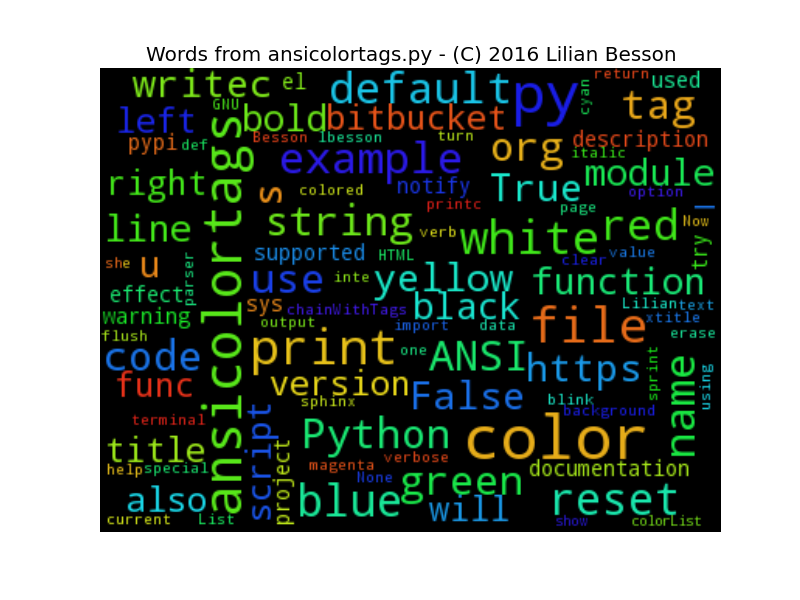
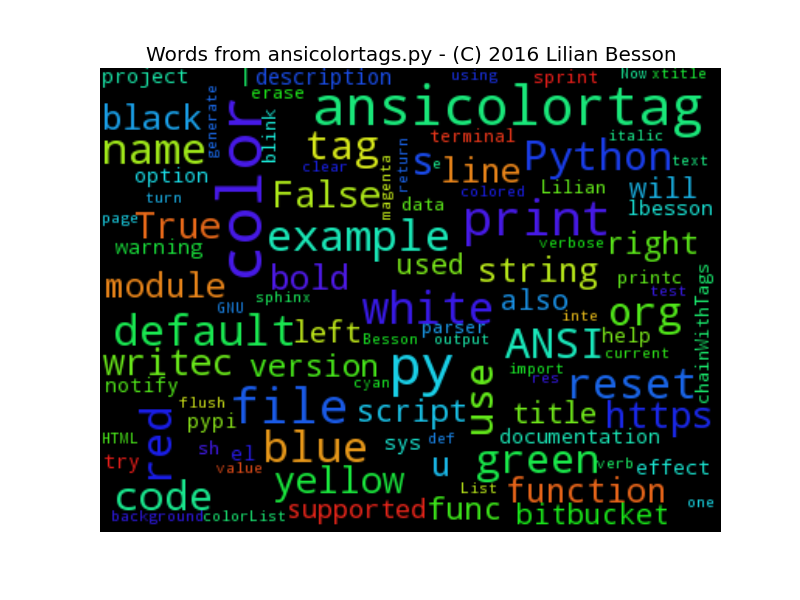
Update the INSTALL file.

Changed region(s): [[0.125, 0.09, 0.9062, 0.9]]

diff --git a/ansicolortags.py b/ansicolortags.py
@@ -2,7 +2,7 @@
 # -*- encoding: utf-8 -*-
 """
 An efficient and simple ANSI colors module (and also a powerful script), with functions to print text using colors.
-https://bitbucket.org/lbesson/ansicolors.py
+https://bitbucket.org/lbesson/ansicolortags.py
 
 
 The names of the colors follow these conventions:
@@ -111,8 +111,8 @@ About
 
 This project can be found on-line:
 
-* `here on BitBucket <https://bitbucket.org/lbesson/ansicolors.py>`_;
-* `here on PyPi <https://pypi.python.org/pypi/ansicolors>`_.
+* `here on BitBucket <https://bitbucket.org/lbesson/ansicolortags.py>`_;
+* `here on PyPi <https://pypi.python.org/pypi/ansicolortags>`_.
 
 
 * The reference page for ANSI code is : `here on Wikipedia <https://en.wikipedia.org/wiki/ANSI_escape_code>`_.
@@ -177,8 +177,8 @@ warning, question, WARNING, INFO, ERROR:
 """
 
 __author__ = 'Lilian Besson'
-__version__ = '0.1'
-__date__ = '2016-06-05T22:27:50+02:00'
+__version__ = '0.2'
+__date__ = '2016-06-06T10:40:41+02:00'
 
 # %% Usual Modules
 # Should we make them hidden from the interface of the script. Idea : remove from __all__ ?
@@ -685,6 +685,7 @@ def _generate_color_sh(file_name=None):
 # List of colors
 # ==============
 """)
+    # FIXME it appears to be failing on Python 3
     res = ""
     for s in colorList:
         exec("res = ('%%s' %% %s)" % s.replace('\x1b', '\\\\x1b'))  # Bad to use exec !

diff --git a/conf.py b/conf.py
@@ -259,7 +259,7 @@ latex_show_pagerefs = True
 # One entry per manual page. List of tuples
 # (source start file, name, description, authors, manual section).
 man_pages = [
-    ('index', 'ansicolors-balises', u'ansicolortags Documentation',
+    ('index', 'ansicolortags', u'ansicolortags Documentation',
      [u'Lilian Besson'], 1)
 ]
 

diff --git a/README.md b/README.md
@@ -15,7 +15,7 @@ ansicolortags
 ### Language?
 Python v2.7+ or Python v3.2+.
 
-This project is hosted on [the Pypi package repository](<https://pypi.python.org/pypi/ANSIColors-balises> "Pypi !").
+This project is hosted on [the Pypi package repository](<https://pypi.python.org/pypi/ansicolortag> "Pypi !").
 
 Documentation
 -------------
